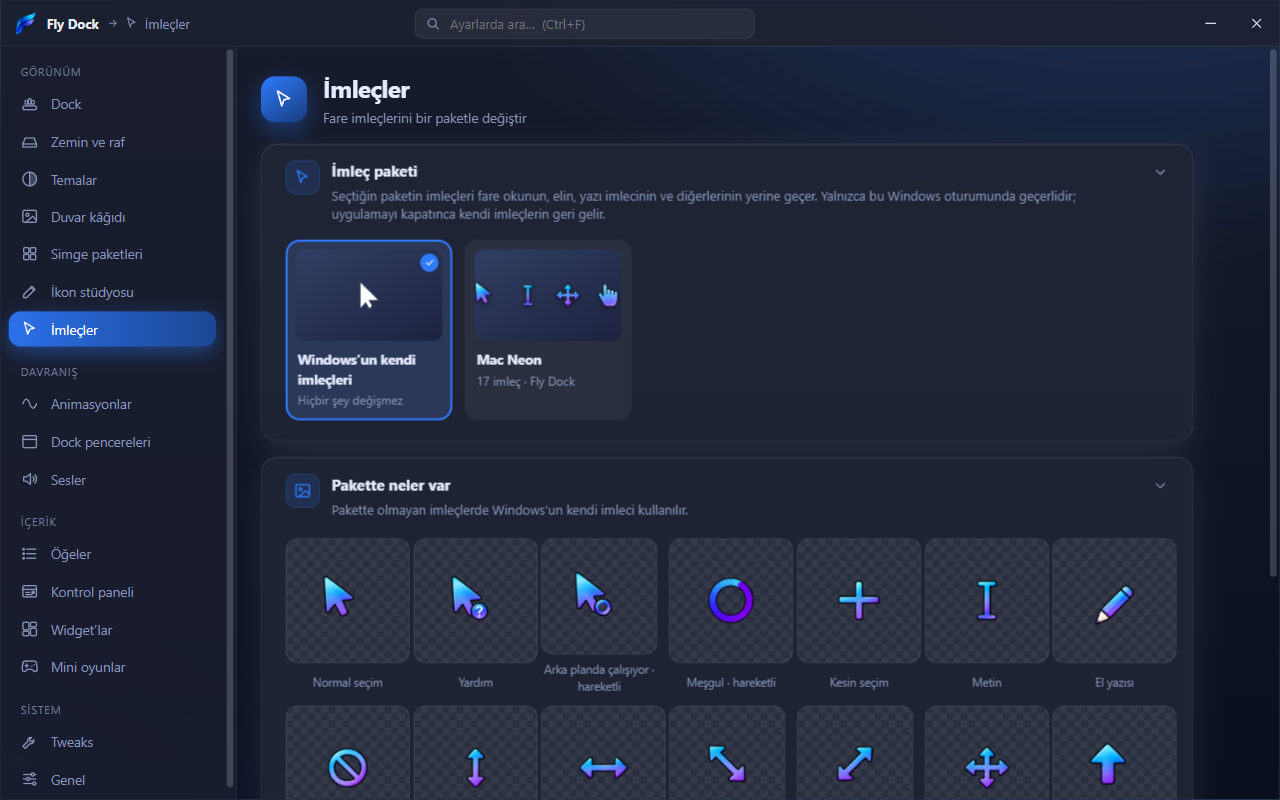
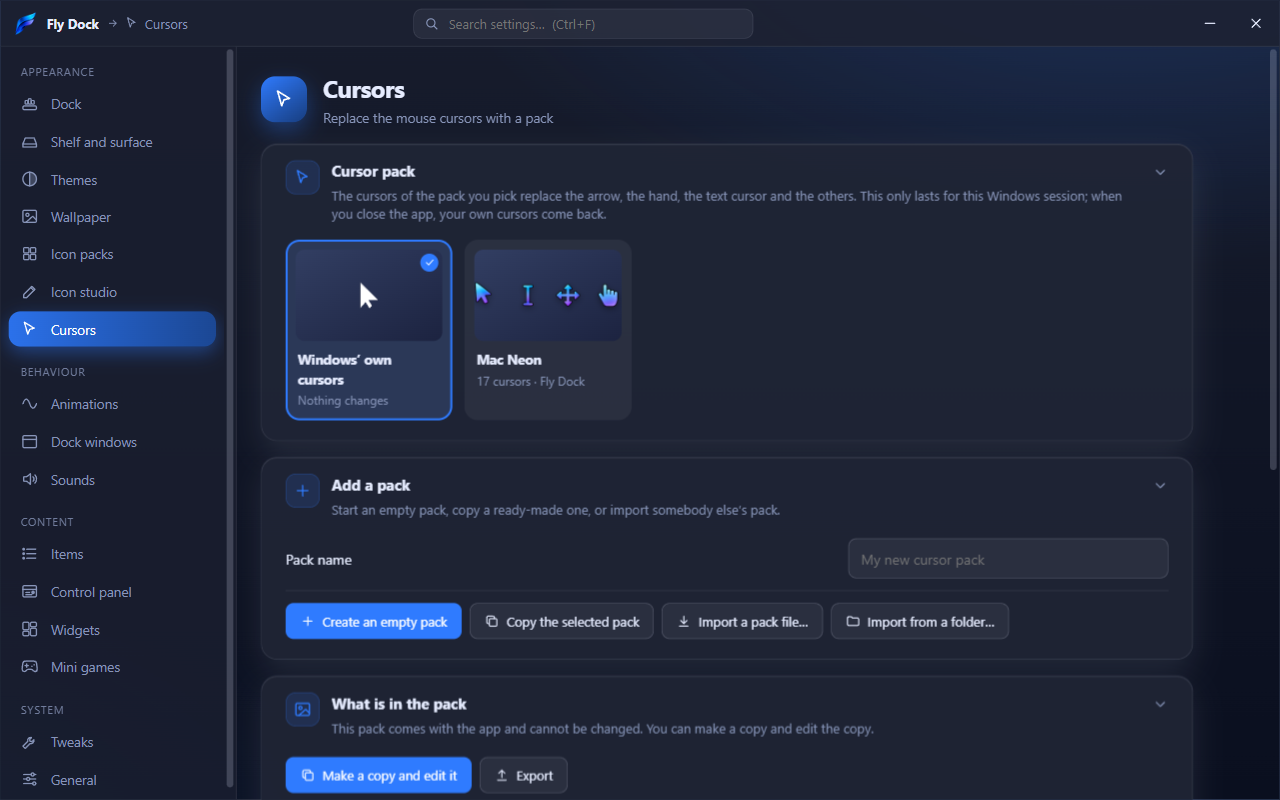
English screenshots for the README (Turkish ones kept for the Turkish README); page language follows the app language

diff --git a/src/i18n/index.ts b/src/i18n/index.ts
@@ -21,7 +21,11 @@ let current: Lang = (() => {
   return resolveLang('auto', Intl.DateTimeFormat().resolvedOptions().locale)
 })()
 
-export function setLang(lang: Lang) { current = lang }
+// the page language drives CSS text-transform (Turkish dotted İ) and spell checking
+const mark = () => { const doc = (globalThis as { document?: { documentElement: { lang: string } } }).document; if (doc) doc.documentElement.lang = current }
+mark()
+
+export function setLang(lang: Lang) { current = lang; mark() }
 export function getLang(): Lang { return current }
 /** The locale for dates, numbers and sorting. */
 export function locale(): string { return current === 'tr' ? 'tr-TR' : 'en-US' }

diff --git a/src/settings/pages/StudioPage.tsx b/src/settings/pages/StudioPage.tsx
@@ -42,7 +42,7 @@ async function artOf(choice: GlyphChoice): Promise<{ glyphArt?: string; glyphFil
 const GROUPS: [string, string, (k: string, i: number) => boolean][] = [
   ['main', tl('Ana öğeler'), (k, i) => !k.startsWith('wheel-') && !['belgeler', 'indirilenler', 'resimler', 'videolar'].includes(k) && i < 38],
   ['wheel', tl('Kontrol paneli'), (k) => k.startsWith('wheel-') || k === 'wheel'],
-  ['apps', 'Programlar', (k, i) => i >= 38 && !k.startsWith('wheel-')],
+  ['apps', tl('Programlar'), (k, i) => i >= 38 && !k.startsWith('wheel-')],
 ]
 const BACKDROPS: [string, string][] = [['dark', tl('Koyu')], ['light', tl('Açık||arka plan')], ['check', tl('Dama')]]
 

diff --git a/index.html b/index.html
@@ -1,5 +1,5 @@
 <!doctype html>
-<html lang="tr">
+<html lang="en">
   <head>
     <meta charset="UTF-8" />
     <meta name="viewport" content="width=device-width, initial-scale=1.0" />

diff --git a/README.tr.md b/README.tr.md
@@ -31,13 +31,13 @@ Planlananlar: ses paketleri, topluluk paketleri. Bkz. [ROADMAP.md](ROADMAP.md).
 ## Ekran görüntüleri
 
 <p>
-  <img src="docs/screenshots/dock.png" width="49%" alt="dock" />
-  <img src="docs/screenshots/themes.png" width="49%" alt="themes" />
-  <img src="docs/screenshots/desk.png" width="49%" alt="desk" />
-  <img src="docs/screenshots/icons.png" width="49%" alt="icons" />
-  <img src="docs/screenshots/studio.png" width="49%" alt="studio" />
-  <img src="docs/screenshots/cursors.png" width="49%" alt="cursors" />
-  <img src="docs/screenshots/toys.png" width="49%" alt="toys" />
+  <img src="docs/screenshots/tr/dock.png" width="49%" alt="dock" />
+  <img src="docs/screenshots/tr/themes.png" width="49%" alt="themes" />
+  <img src="docs/screenshots/tr/desk.png" width="49%" alt="desk" />
+  <img src="docs/screenshots/tr/icons.png" width="49%" alt="icons" />
+  <img src="docs/screenshots/tr/studio.png" width="49%" alt="studio" />
+  <img src="docs/screenshots/tr/cursors.png" width="49%" alt="cursors" />
+  <img src="docs/screenshots/tr/toys.png" width="49%" alt="toys" />
 </p>
 
 ## İndir
